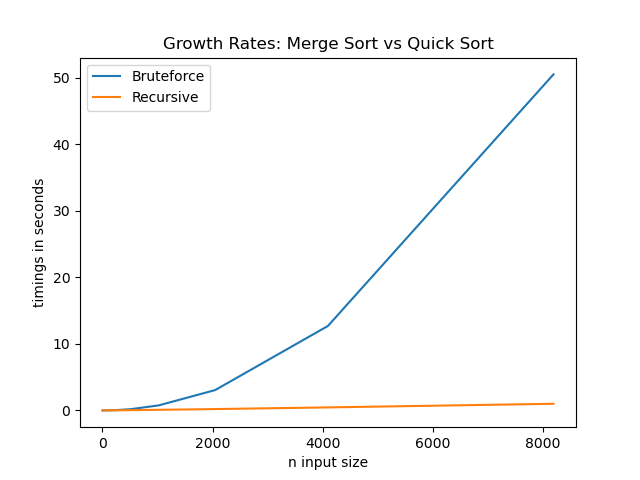
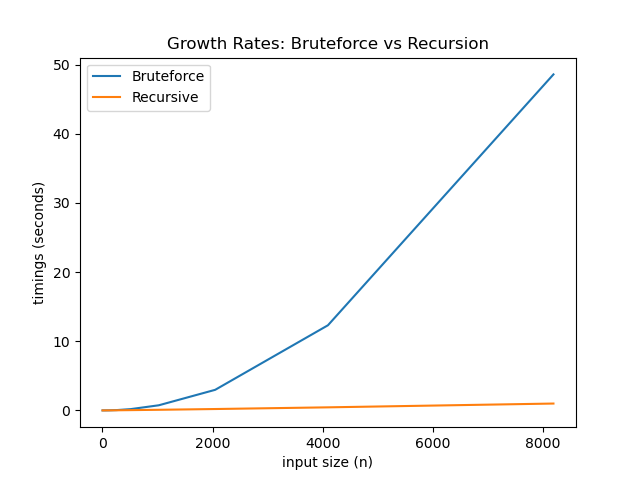
Fixed graph title and labels

diff --git a/benchmark.py b/benchmark.py
@@ -74,7 +74,8 @@ class Benchmark(object):
         re_ansewrs = []
 
         # generate lists of lists
-        print("\nGenerating same lists for bruteforce and recursion...")
+        print("\nGenerating unique, identical lists for bruteforce and "
+              "recursion...")
         for i in range(sample_size):
             # generate unique list of size twice of n[i] using random.sample()
             unique_list = random.sample(range(0, 3 * n[i]), 2 * n[i])
@@ -151,9 +152,9 @@ class Benchmark(object):
         plt.figure(fig)
         plt.plot(n, timings_bruteforce, label="Bruteforce")
         plt.plot(n, timings_recursive, label="Recursive")
-        plt.xlabel('n input size')
-        plt.ylabel('timings in seconds')
-        plt.title('Growth Rates: Merge Sort vs Quick Sort')
+        plt.xlabel('input size (n)')
+        plt.ylabel('timings (seconds)')
+        plt.title('Growth Rates: Bruteforce vs Recursion')
         plt.legend()  # show legend
 
 
